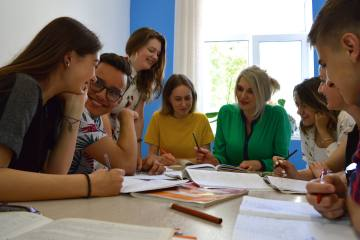
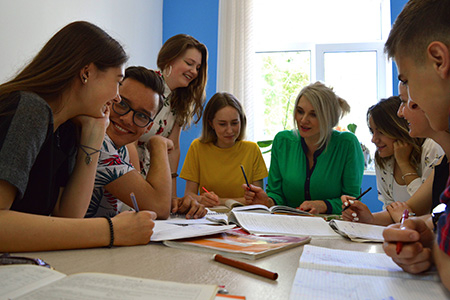
оптимизация

diff --git a/index.html b/index.html
@@ -515,7 +515,7 @@
           <div class="row">
             <div class="col-sm-6 col-md-4 maxwidth500 mb-sm-40 wow fadeInUp" data-margin-top="-160px" data-wow-duration="1s" data-wow-delay="0.1s">
               <a href="/prices/" class="prices_el">
-                <img class="img-fullwidth" src="/img/11.jpg" alt="">
+                <img class="img-fullwidth" src="/img/11_min.jpg" alt="">
                 <span class="btn btn-flat btn-dark btn-theme-colored btn-md pull-right font-20 hover-link"><span>35 руб.</span> </span>
               </a>
               <div class="bg-silver-light border-1px p-20 pt-0 pb-30 mb-sm-180">
@@ -525,7 +525,7 @@
             </div>
             <div class="col-sm-6 col-md-4 maxwidth500 mb-sm-40 wow fadeInUp" data-margin-top="-160px" data-wow-duration="1s" data-wow-delay="0.1s">
               <a href="/prices/" class="prices_el">
-                <img class="img-fullwidth" src="/img/5.jpg" alt="">
+                <img class="img-fullwidth" src="/img/5_min.jpg" alt="">
                 <span class="btn btn-flat btn-dark btn-theme-colored btn-md pull-right font-20 hover-link"><span>29 руб.</span> </span>
               </a>
               <div class="bg-silver-light border-1px p-20 pt-0 pb-30 mb-sm-180">
@@ -535,7 +535,7 @@
             </div>
             <div class="col-sm-6 col-md-4 maxwidth500 mb-sm-0 wow fadeInUp" data-margin-top="-160px" data-wow-duration="1s" data-wow-delay="0.1s">
               <a href="/prices/" class="prices_el">
-                <img class="img-fullwidth" src="/img/3.jpg" alt="">
+                <img class="img-fullwidth" src="/img/3_min.jpg" alt="">
                 <span class="btn btn-flat btn-dark btn-theme-colored btn-md pull-right font-20 hover-link"><span>19 руб.</span> </span>
               </a>
               <div class="bg-silver-light border-1px p-20 pt-0 pb-30">
@@ -653,7 +653,7 @@
                 <div class="gallery-item computer">
                   <div class="item">
                     <div class="project mb-30 border-2px">
-                        <a href="/our-courses/"><img class="img-fullwidth" alt="" src="/img/1.jpg"></a>
+                        <a href="/our-courses/"><img class="img-fullwidth" alt="" src="/img/1_min.jpg"></a>
                   <div class="project-details p-15 pt-10 pb-10">
                     <!--<h5 class="font-14 font-weight-500 mb-5">Subtitle place here</h5>-->
                     <h4 class="font-weight-700 text-uppercase mt-0 course_title"><a href="/our-courses/podgotovka_k_tst.html">Подготовка к ЦТ по математике</a></h4>
@@ -666,7 +666,7 @@
                 <div class="gallery-item computer">
                   <div class="item">
                     <div class="project mb-30 border-2px">
-                        <a href="/our-courses/"><img class="img-fullwidth" alt="" src="/img/16.jpg"></a>
+                        <a href="/our-courses/"><img class="img-fullwidth" alt="" src="/img/16_min.jpg"></a>
                   <div class="project-details p-15 pt-10 pb-10">
                     <!--<h5 class="font-14 font-weight-500 mb-5">Subtitle place here</h5>-->
                     <h4 class="font-weight-700 text-uppercase mt-0 course_title"><a href="/our-courses/shkola_na_otlichno.html">Школа на отлично (5-10 класс)</a></h4>
@@ -679,7 +679,7 @@
                 <div class="gallery-item languages">
                   <div class="item">
                     <div class="project mb-30 border-2px">
-                        <a href="/our-courses/"><img class="img-fullwidth" alt="" src="/img/9.jpg"></a>
+                        <a href="/our-courses/"><img class="img-fullwidth" alt="" src="/img/9_min.jpg"></a>
                   <div class="project-details p-15 pt-10 pb-10">
                     <!--<h5 class="font-14 font-weight-500 mb-5">Subtitle place here</h5>-->
                     <h4 class="font-weight-700 text-uppercase mt-0 course_title"><a href="/our-courses/vyisshaya_matematika_studentam_vuzov.html">Высшая математика для студентов</a></h4>
@@ -692,7 +692,7 @@
                 <div class="gallery-item languages">
                   <div class="item">
                     <div class="project mb-30 border-2px">
-                        <a href="/our-courses/"><img class="img-fullwidth" alt="" src="/img/10.jpg"></a>
+                        <a href="/our-courses/"><img class="img-fullwidth" alt="" src="/img/10_min.jpg"></a>
                   <div class="project-details p-15 pt-10 pb-10">
                     <!--<h5 class="font-14 font-weight-500 mb-5">Subtitle place here</h5>-->
                     <h4 class="font-weight-700 text-uppercase mt-0 course_title"><a href="/our-courses/intensiv_na_kanikulah.html">Интенсив на каникулах</a></h4>
@@ -718,7 +718,7 @@
                 <div class="gallery-item law">
                   <div class="item">
                     <div class="project mb-30 border-2px">
-                        <a href="/our-courses/"><img class="img-fullwidth" alt="" src="/img/8.jpg"></a>
+                        <a href="/our-courses/"><img class="img-fullwidth" alt="" src="/img/8_min.jpg"></a>
                   <div class="project-details p-15 pt-10 pb-10">
                     <!--<h5 class="font-14 font-weight-500 mb-5">Subtitle place here</h5>-->
                     <h4 class="font-weight-700 text-uppercase mt-0 course_title"><a href="/our-courses/s_geometriey_na_tyi.html">С геометрией
